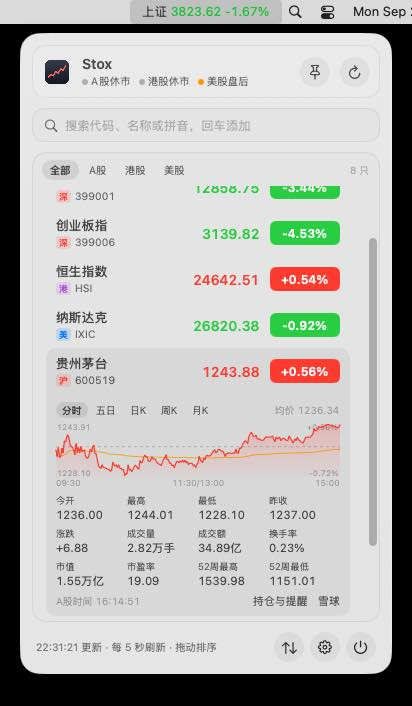
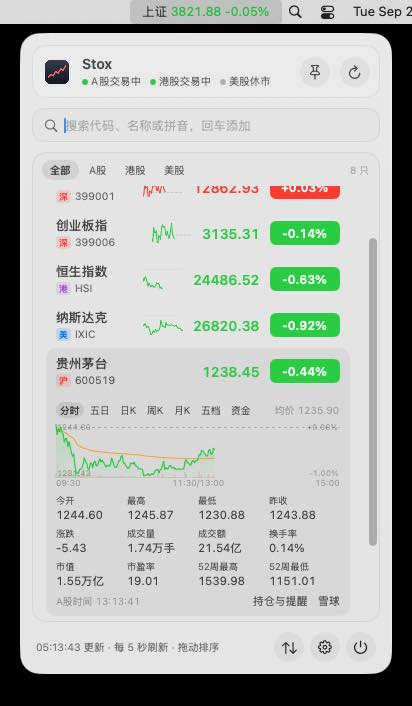
Draw volume bars under the five-day chart; refresh the README screenshots (#42)
- MultiDaySeries.volumeBuckets adds the minute volumes into equal
  parts of the five-day axis, keeping each day's closing minute in its
  own day, and volumeCap tops the bars out at 1.5 times the 95th
  percentile, so the five opening auctions do not flatten the rest.
  Tested.
- The five-day chart draws a bar every two points in its bottom
  quarter, in a faint neutral colour under the price line.
- The README shows the list and the detail with sparklines, adds the
  fund flow page and the profit calendar, and gives the archive and
  memory sizes of the latest CI measurements.

Claude-Session: https://claude.ai/code/session_01H7xfHWHbRJ9Cp9s4wvneon

diff --git a/Sources/Stox/IntradayChart.swift b/Sources/Stox/IntradayChart.swift
@@ -196,7 +196,7 @@ struct IntradayChart: View {
 }
 
 /// 五日图：最近五个交易日的分时连在一起，每天占一样宽，竖线分开各天，虚线是第一天的昨收，
-/// 橙色的线是每天各自的成交均价（个股才有）。
+/// 橙色的线是每天各自的成交均价（个股才有），最下面淡淡的是成交量柱。
 struct FiveDayChart: View {
     let series: MultiDaySeries?
     let region: MarketRegion
@@ -209,7 +209,13 @@ struct FiveDayChart: View {
     var body: some View {
         GeometryReader { proxy in
             if let series, let scale = Scale(series: series, region: region, size: proxy.size, includingAverages: showAverage) {
+                // 成交量柱：每 2 个点宽一根，在最下面四分之一，淡淡的，价格线压在上面。
+                let volumes = series.volumeBuckets(count: max(Int(proxy.size.width / 2), 1), region: region)
                 ZStack {
+                    if let cap = MultiDaySeries.volumeCap(volumes) {
+                        VolumeBars(values: volumes, cap: cap)
+                            .fill(Color.primary.opacity(0.16))
+                    }
                     scale.separators
                         .stroke(Color.secondary.opacity(0.3), lineWidth: 0.5)
                     scale.area
@@ -409,6 +415,24 @@ struct ChartAxis: View {
             .frame(width: proxy.size.width, alignment: .topLeading)
         }
         .accessibilityHidden(true)
+    }
+}
+
+/// 五日图下面的成交量柱：values 平均排满横轴，cap 对应最下面四分之一的高度，更高的顶到头。
+struct VolumeBars: Shape {
+    let values: [Double]
+    let cap: Double
+
+    func path(in rect: CGRect) -> Path {
+        var path = Path()
+        guard !values.isEmpty, cap > 0 else { return path }
+        let step = rect.width / CGFloat(values.count)
+        let full = rect.height / 4
+        for (index, value) in values.enumerated() where value > 0 {
+            let height = max(full * CGFloat(min(value / cap, 1)), 0.5)
+            path.addRect(CGRect(x: rect.minX + CGFloat(index) * step + step * 0.15, y: rect.maxY - height, width: max(step * 0.7, 0.5), height: height))
+        }
+        return path
     }
 }
 

diff --git a/Sources/StoxCore/Intraday.swift b/Sources/StoxCore/Intraday.swift
@@ -243,6 +243,33 @@ public struct MultiDaySeries: Equatable, Sendable {
 
     public var pointCount: Int { days.reduce(0) { $0 + $1.points.count } }
 
+    /// 五日图下面的成交量柱：横轴平均分成 count 段（每天占一样宽），落在同一段里的每分钟成交量加起来。
+    /// 单位和分时一样（A 股是手，科创板、港股、美股是股）。
+    public func volumeBuckets(count: Int, region: MarketRegion) -> [Double] {
+        let length = Double(IntradayAxis.length(for: region))
+        guard count > 0, !days.isEmpty, length > 1 else { return [] }
+        var buckets = [Double](repeating: 0, count: count)
+        for (day, series) in days.enumerated() {
+            for point in series.points {
+                guard let volume = point.volume, volume > 0 else { continue }
+                // 收盘那一分钟和第二天开盘在横轴上是同一个位置，往前挪一点，算在自己那一天。
+                let offset = min(Double(IntradayAxis.offset(of: point.minute, region: region)), length - 1)
+                let position = (Double(day) * length + offset) / (Double(days.count) * length)
+                buckets[min(max(Int(position * Double(count)), 0), count - 1)] += volume
+            }
+        }
+        return buckets
+    }
+
+    /// 量柱顶满时对应的量。每天开盘那一段带着集合竞价，常常比别的大好几倍；按不为 0 的那些里排在 95% 的那个的
+    /// 1.5 倍算（不超过最大的），更大的顶到头，别的柱子不会被压得看不见。都是 0 时为 nil。
+    public static func volumeCap(_ buckets: [Double]) -> Double? {
+        let sorted = buckets.filter { $0 > 0 }.sorted()
+        guard let largest = sorted.last else { return nil }
+        let percentile = sorted[Int(Double(sorted.count - 1) * 0.95)]
+        return min(largest, percentile * 1.5)
+    }
+
     /// 横轴位置 fraction（0 到 1）最近的点：第几天、哪个点。每天占一样宽。
     public func point(nearest fraction: Double, region: MarketRegion) -> (day: Int, point: IntradayPoint)? {
         guard !days.isEmpty else { return nil }

diff --git a/Tests/StoxCoreTests/IntradayTests.swift b/Tests/StoxCoreTests/IntradayTests.swift
@@ -201,6 +201,26 @@ final class FiveDayTests: XCTestCase {
         XCTAssertEqual(noon.point.minute, 12 * 60, "最后一天的中午")
     }
 
+    func testVolumeBucketsAndCap() {
+        let symbol = Symbol("sh600519")!
+        func day(_ date: String, _ points: [(Int, Double)]) -> IntradaySeries {
+            IntradaySeries(symbol: symbol, date: date, points: points.map { IntradayPoint(minute: $0.0, price: 10, volume: $0.1) })
+        }
+        // A 股每天 240 分钟，两天分成 4 段，每段半天。收盘那一分钟算在自己那一天，午休归到上午。
+        let series = MultiDaySeries(symbol: symbol, days: [
+            day("20260928", [(570, 5000), (600, 100), (780, 200), (900, 300)]),
+            day("20260929", [(570, 4000), (720, 50)]),
+        ], previousClose: 10, dayPreviousCloses: [10, 10])
+        XCTAssertEqual(series.volumeBuckets(count: 4, region: .cn), [5100, 500, 4000, 50])
+        XCTAssertEqual(series.volumeBuckets(count: 0, region: .cn), [])
+
+        // 两根开盘的特别高：按排在 95% 的 1.5 倍顶满，别的柱子看得见。
+        let buckets = Array(repeating: 100.0, count: 20) + [5000, 5000] + [0, 0]
+        XCTAssertEqual(MultiDaySeries.volumeCap(buckets), 150)
+        XCTAssertEqual(MultiDaySeries.volumeCap([50, 500, 4000, 5100]), 5100, "不超过最大的")
+        XCTAssertNil(MultiDaySeries.volumeCap([0, 0]))
+    }
+
     func testFiveDayURLs() {
         XCTAssertEqual(TencentProvider.fiveDayURL(for: Symbol("sh600519")!)?.absoluteString,
                        "https://web.ifzq.gtimg.cn/appstock/app/day/query?code=sh600519")

diff --git a/README.md b/README.md
@@ -1,9 +1,9 @@
 # Stox
 
-一个轻量的 macOS 菜单栏股票行情工具。左键点一下菜单栏图标打开玻璃质感的行情面板，再点一下（或点面板外、按 Esc）就关掉；右键点一下在“显示行情”和“只显示图标”之间切换。原生 Swift 编写，压缩包约 3MB，内存占用约 28MB。
+一个轻量的 macOS 菜单栏股票行情工具。左键点一下菜单栏图标打开玻璃质感的行情面板，再点一下（或点面板外、按 Esc）就关掉；右键点一下在“显示行情”和“只显示图标”之间切换。原生 Swift 编写，压缩包约 3.5MB，内存占用约 30MB。
 
 <p>
-  <img src="docs/images/panel.jpg" width="300" alt="自选列表">
+  <img src="docs/images/panel.jpg" width="300" alt="自选列表和迷你分时">
   <img src="docs/images/detail.jpg" width="300" alt="展开详情：分时和均价线">
 </p>
 <p>
@@ -11,8 +11,12 @@
   <img src="docs/images/orderbook.jpg" width="300" alt="买卖五档">
 </p>
 <p>
+  <img src="docs/images/fundflow.jpg" width="300" alt="资金流向">
   <img src="docs/images/holdings.jpg" width="300" alt="持仓与盈亏">
+</p>
+<p>
   <img src="docs/images/editor.jpg" width="300" alt="持仓、买卖记录和分红">
+  <img src="docs/images/calendar.jpg" width="300" alt="盈亏日历">
 </p>
 <p>
   <img src="docs/images/rank.jpg" width="300" alt="A 股涨跌榜">
@@ -25,7 +29,7 @@
   <img src="docs/images/settings.jpg" width="604" alt="设置窗口">
 </p>
 
-截图依次是自选列表、展开详情（分时和均价线）、日 K 和均线、A 股的买卖五档、持仓与盈亏、编辑页的持仓和买卖记录、A 股涨跌榜、搜索添加、“不显示红绿”配色和设置窗口，由 CI 在 macOS 15 上启动打包好的 App 自动截取，数据是 2026-09-28、29 的实时行情。
+截图依次是自选列表（每一行带着当天的迷你分时）、展开详情（分时和均价线）、日 K 和均线、A 股的买卖五档、A 股的资金流向、持仓与盈亏、编辑页的持仓和买卖记录、盈亏日历、A 股涨跌榜、搜索添加、“不显示红绿”配色和设置窗口，由 CI 在 macOS 15 上启动打包好的 App 自动截取，数据是 2026-09-28、29 的实时行情。
 
 ## 功能
 
@@ -40,7 +44,7 @@
 - **覆盖三地市场**：沪深北 A 股、港股、美股，以及上证指数、恒生指数、纳斯达克等指数和 ETF；美股个股在盘前盘后显示盘前盘后价（设置里可以关掉）。也能加场外基金，看每天的单位净值和涨跌、算持仓盈亏。
 - **搜索添加**：输入代码、中文名或拼音首字母（`600519`、`腾讯`、`gzmt`、`aapl`），搜索结果直接带着现价和涨跌幅，回车添加第一条；一次粘贴多个代码（`600519 00700 AAPL`）可以批量添加。底部的排序菜单里能一键复制全部代码，粘贴到另一台 Mac 的搜索框就能全部加回来；也能复制持仓表格、买卖记录和盈亏记录，直接粘贴到 Numbers、Excel。
 - **自选管理**：拖动排序（只看某个分组时也能拖），或者按涨幅、跌幅排序；可以给自选分组（右键选“分组”），列表上方可以只看某个分组、A 股、港股、美股或者有持仓的；每一行现价左边画着当天的迷你分时（设置里可以关）；自选多时可以切成每只一行的紧凑列表；点右边的色块在涨跌幅、涨跌额、总市值之间切换；价格变动时轻轻闪一下；单击展开详情，看今开、最高、最低、成交额、换手率、市盈率、市值、52 周最高最低；右键可固定到菜单栏、设置持仓和提醒、在雪球查看、删除。
-- **分时和 K 线**：展开后可以在分时、五日、日 K、周 K、月 K 之间切换，K 线是前复权的最近 60 根，带 5、10、20 根的均线和成交量，个股的分时图、五日图上有均价线，分时图下面有每分钟的成交量，图下面标着时间或日期；鼠标移到图上显示那一分钟的价格、均价和成交量，或那一根的开高低收、成交量和均线值。A 股个股还可以切到“五档”，看买一到买五、卖一到卖五的挂单，以及委比、委差和外盘内盘；切到“资金”看主力当天净流入的逐分钟累计，以及超大单、大单、中单、小单各自的净流入。填了持仓的在图上画成本线，K 线上用 B、S 标出记过的买卖。
+- **分时和 K 线**：展开后可以在分时、五日、日 K、周 K、月 K 之间切换，K 线是前复权的最近 60 根，带 5、10、20 根的均线和成交量，个股的分时图、五日图上有均价线，分时图、五日图下面有成交量，图下面标着时间或日期；鼠标移到图上显示那一分钟的价格、均价和成交量，或那一根的开高低收、成交量和均线值。A 股个股还可以切到“五档”，看买一到买五、卖一到卖五的挂单，以及委比、委差和外盘内盘；切到“资金”看主力当天净流入的逐分钟累计，以及超大单、大单、中单、小单各自的净流入。填了持仓的在图上画成本线，K 线上用 B、S 标出记过的买卖。
 - **A 股涨跌榜**：排序菜单里的“A 股涨跌榜…”列出沪深京 A 股的涨幅榜、跌幅榜和成交额前 20 只，以及申万一级行业的涨跌排行和各自的领涨股，开着时每 30 秒刷新，可以不看新股；点一只加到自选。
 - **键盘操作**：↑ ↓ 在搜索结果或自选里选择，回车添加或展开，展开后 ← → 切换分时和 K 线，配合全局快捷键可以完全不碰鼠标。
 - **持仓与盈亏**：给每只填上持有数量和成本价，列表里显示持仓盈亏比例，展开后看持仓盈亏和今日盈亏，列表上方按人民币、港币、美元分别合计（只看某个分组或市场时只算这些），几种货币都有时再按汇率折成人民币合计一行，还可以展开看每只占总市值多少，以及最近每个交易日赚了多少（本周、本月合计），也能打开盈亏日历按月看每天的今日盈亏；也可以在菜单栏显示今日盈亏。买卖之后在编辑页“记一笔”，买入自动按加权平均重新算成本价，卖出记下这一笔赚了多少，分红送转也能记（成本价自动摊薄），合计卡片下面写着今年已实现的盈亏，今天的买卖也会算进今日盈亏；打开“收盘小结”后，有持仓的市场收盘时发一条今日盈亏通知。给别人看屏幕时，点合计里“市值”旁边的小眼睛把金额和持有数量换成 ****，只留比例，菜单栏和通知里也一样。

diff --git a/CHANGELOG.md b/CHANGELOG.md
@@ -2,6 +2,11 @@
 
 每个版本发布时，对应的这一节会放在 GitHub 发布说明的最前面，App 里“关于与更新”页显示的也是这一节。
 
+## 0.38.0
+
+- 五日图最下面也画上成交量柱：横轴每两个点宽一根，把那几分钟的量加起来；每天开盘带着集合竞价的那几根特别高，按大多数柱子的高度顶满，别的柱子看得见。
+- README 换上带迷你分时的自选列表和展开详情，加上资金流向和盈亏日历的截图。
+
 ## 0.37.0
 
 - 盈亏日历：排序菜单里的“盈亏日历…”（或者盈亏记录下面的“日历”）按月列出每个交易日收盘后记下的今日盈亏，赚（亏）得越多格子颜色越深，下面写着这个月的合计和赚、亏了几天；几种货币分开看，可以往前翻月份。打开“隐藏金额”时格子里只有颜色。
